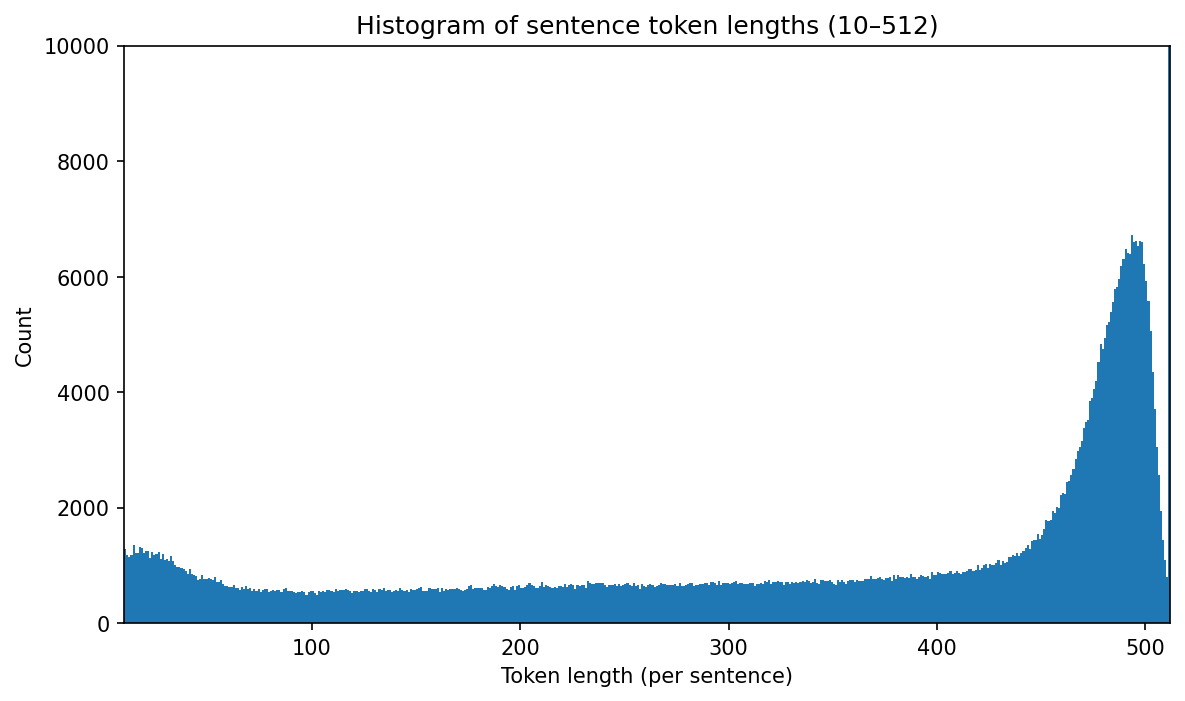
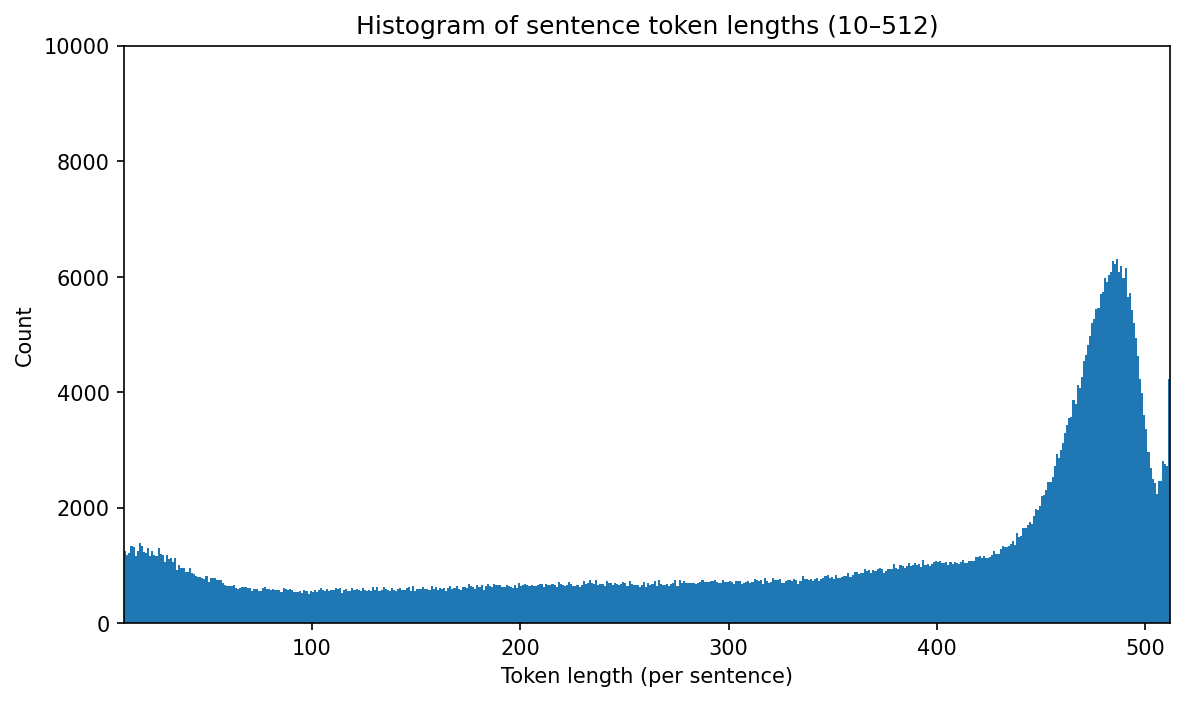
add filter analysis

Changed region(s): [[0.6869, 0.3295, 0.9992, 0.8388], [0.6245, 0.8088, 0.6557, 0.8388]]

diff --git a/src/analysis/filtering.py b/src/analysis/filtering.py
@@ -1,0 +1,72 @@
+import duckdb
+import ast
+import pandas as pd
+
+# Load tech hits
+tech_con = duckdb.connect('data/dbs/tech_hits.duckdb')
+tech_df = tech_con.execute("SELECT * FROM tech_hits").fetchdf()
+tech_con.close()
+
+# Load SDG hits
+sdg_con = duckdb.connect('data/dbs/sdg_hits.duckdb')
+sdg_df = sdg_con.execute("SELECT * FROM sdg_hits").fetchdf()
+sdg_con.close()
+
+passage_metadata = {}
+
+tech_hits_cols = ["hits_ai_ml",
+                  "hits_cloud_computing",
+                  "hits_big_data_blockchain",
+                  "hits_applications_practice"
+                  ]
+
+base_counters = [0,0,0,0]
+total_passages = set()
+for i in range(len(tech_df)):
+    row_data = tech_df.iloc[i]
+    passage_id = row_data['global_id']
+    for j in range(len(tech_hits_cols)):
+        kw_col = tech_hits_cols[j]
+        row_data_value = ast.literal_eval(row_data[kw_col])
+        if row_data_value != []:
+            base_counters[j] += 1
+            if row_data['global_id'] not in total_passages:
+                total_passages.add(row_data['global_id'])
+
+print(f"\nCounts for each set of tech hits: {tech_hits_cols} are - {base_counters}")
+print(f"\nTotal passages that mention Tech related keywords: {len(total_passages)}")
+
+sdg_hits_cols = [f"hits_sdg{i+1}" for i in range(17)]
+base_sdg_counters = [0]*17
+sdg_passages = set()
+for i in range(len(sdg_df)):
+    row_data = sdg_df.iloc[i]
+    for j in range(len(sdg_hits_cols)):
+        kw_col = sdg_hits_cols[j]
+        row_data_value = ast.literal_eval(row_data[kw_col])
+        if row_data_value != []:
+            base_sdg_counters[j] += 1
+            if row_data['global_id'] not in sdg_passages:
+                sdg_passages.add(row_data['global_id'])
+
+print(f"\nCounts for each SDG related keywords in order: {base_sdg_counters}")
+
+print(f"\nTotal passages that mention SDG related keywords: {len(sdg_passages)}")
+
+commons_passages = total_passages.intersection(sdg_passages)
+
+print(f"\nTotal common passages between the two sets: {len(commons_passages)}")
+
+"""
+
+Counts for each set of tech hits: ['hits_ai_ml', 'hits_cloud_computing', 'hits_big_data_blockchain', 'hits_applications_practice'] are - [4230, 2435, 2167, 7084]
+
+Total passages that mention Tech related keywords: 13670
+
+Counts for each SDG related keywords in order: [30, 59, 100, 149, 190, 808, 1634, 4329, 1674, 317, 1239, 6781, 12850, 127, 35, 6648, 1156]
+
+Total passages that mention SDG related keywords: 31476
+
+Total common passages between the two sets: 1165
+
+"""

diff --git a/src/analysis/splitting.py b/src/analysis/splitting.py
@@ -44,10 +44,10 @@ def _get_token_counter():
     """
     try:
         import tiktoken  # local import per process
-        enc = tiktoken.get_encoding("cl100k_base")
+        enc = tiktoken.get_encoding("o200k_base")
         def count_tokens(text: str) -> int:
             return len(enc.encode(text or ""))
-        tokenizer_name = "tiktoken cl100k_base"
+        tokenizer_name = "tiktoken o200k_base"
     except Exception:
         def count_tokens(text: str) -> int:
             return len(text.split()) if text else 0
@@ -201,15 +201,14 @@ def main():
 if __name__ == "__main__":
     main()
 
-
 """
 files_scanned: 1420
 total_sentences: 620177
-mean_tokens: 350.4602911749388
-median_tokens: 431.0
+mean_tokens: 341.7491038848587
+median_tokens: 413.0
 min_tokens: 1
-max_tokens: 512
-tokenizer_used: tiktoken cl100k_base
+max_tokens: 788
+tokenizer_used: tiktoken o200k_base
 read_errors: 0
 proc_errors: 0
 workers: 8
